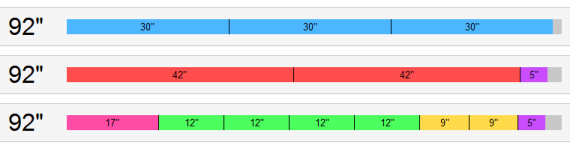
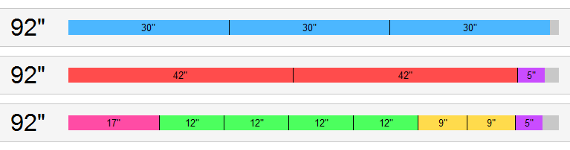
made thumbnails, tweaked styling

diff --git a/templates/work/scope.html b/templates/work/scope.html
@@ -20,14 +20,14 @@
 
 {% block article -%}
 		<section>
-			{{ make_image("/static/work/scope.png", "/static/work/scope.png") }}
+			{{ make_image("/static/work/scope_thumb.png", "/static/work/scope.png") }}
 		</section>
 		<section>
 			<div class='col'>
 				This is a software package for turning an Arduino into an oscilloscope. The front-end is written in Processing, and provides controls for pin selection, triggering, and sample rate. Data is collected via the Arduino’s 6 ADC pins, and triggered/buffered on the chip. This allows for sample rates of up to 25kHz.
 			</div>
 			<div class='col'>
-				In order to achieve better results, it was neccessary to process and buffer the signal on the Arduino itself. While this does present severe memory constrictions, it goes a long way to preserve the temporal consistancy of the readings. Triggering (signal stabalization) can also be done in the Arduino, and helps prevent the sending of undisplayed data. This alone dramatically increases the sample rate of the system. More speed was also coaxed out of the analogRead() by <a href='http://brendanwhitfield.wordpress.com/2014/04/07/arduino-fast-analogread/'>adjusting prescale registers in the AVR</a>.
+				In order to achieve better results, it was neccessary to process and buffer the signal on the Arduino itself. While this does present severe memory constrictions, it goes a long way to preserve the temporal consistancy of the readings. Triggering (signal stabalization) can also be done in the Arduino, and helps prevent the sending of undisplayed data. This alone dramatically increases the sample rate of the system. More speed was also coaxed out of the analogRead() by <a href='http://www.microsmart.co.za/technical/2014/03/01/advanced-arduino-adc/'>adjusting prescale registers in the AVR</a>.
 			</div>
 		</section>
 {% endblock %}

diff --git a/templates/work/cgraph.html b/templates/work/cgraph.html
@@ -21,11 +21,13 @@
 
 {% block article -%}
 		<section>
-			{{ make_image("/static/work/cgraph.png", "/static/work/cgraph.png") }}
+			{{ make_image("/static/work/cgraph_thumb.png", "/static/work/cgraph.png") }}
 		</section>
 		<section>
 			<div class='col'>
-				C-Graph is a function call graphing utility for C. Integrated with GitHub, C-Graph contructs a force directed graph of function and files in a Git repository. Files can be expanded into sets of functions, with arrows depicting the calls from one function to the next. Selecting a function or file will also display its raw C code.
+				<p>
+					C-Graph is a function call graphing utility for C that is integrated with GitHub. Simply provide the url for a Git repository, and C-Graph will search for C files. The graph itself represents the code at both the file and function level. Files can be expanded into sets of functions, with arrows depicting the calls from one function to the next. Selecting a function or file will also display its raw C code.
+				</p>
 			</div>
 			<div class='col'>
 				

diff --git a/templates/work/remote.html b/templates/work/remote.html
@@ -19,7 +19,7 @@
 
 {% block article -%}
 		<section>
-			{{ make_image("/static/work/remote.jpg", "/static/work/remote.jpg") }}
+			{{ make_image("/static/work/remote_thumb.jpg", "/static/work/remote.jpg") }}
 		</section>
 		<section>
 			<div class='col'>
@@ -30,6 +30,6 @@
 			</div>
 		</section>
 		<section>
-			{{ make_image("/static/work/remote_inside.jpg", "/static/work/remote_inside.jpg") }}
+			{{ make_image("/static/work/remote_inside_thumb.jpg", "/static/work/remote_inside.jpg") }}
 		</section>
 {% endblock %}

diff --git a/templates/base.html b/templates/base.html
@@ -84,8 +84,8 @@
 				] -%}
 
 				{% for link in work %}
-					<a href='/work/{{ link[1] }}' {% if link[1] == page_name %}class='current'{% endif %} >{{ link[0] }}</a>
-				{% endfor %}
+				<a href='/work/{{ link[1] }}' {% if link[1] == page_name -%}class='current' {% endif -%}>{{ link[0] }}</a>
+				{%- endfor %}
 			</nav>
 			<nav>
 				<span>About</span>

diff --git a/templates/work/asteroids.html b/templates/work/asteroids.html
@@ -19,7 +19,7 @@
 
 {% block article -%}
 		<section>
-			{{ make_image("/static/work/asteroids.png", "/static/work/asteroids.png") }}
+			{{ make_image("/static/work/asteroids_thumb.png", "/static/work/asteroids.png") }}
 		</section>
 		<section>
 			<div class='col'>

diff --git a/templates/work/planetary.html b/templates/work/planetary.html
@@ -18,7 +18,7 @@
 
 {% block article -%}
 		<section>
-			{{ make_image("/static/work/planetary.png", "/static/work/planetary.png") }}
+			{{ make_image("/static/work/planetary_thumb.png", "/static/work/planetary.png") }}
 		</section>
 		<section>
 			<div class='col'>

diff --git a/templates/work/15puzzle.html b/templates/work/15puzzle.html
@@ -18,7 +18,7 @@
 
 {% block article -%}
 		<section>
-			{{ make_image("/static/work/15puzzle.png", "/static/work/15puzzle.png") }}
+			{{ make_image("/static/work/15puzzle_thumb.png", "/static/work/15puzzle.png") }}
 		</section>
 		<section>
 			<div class='col'>

diff --git a/templates/work/lumber.html b/templates/work/lumber.html
@@ -20,7 +20,7 @@
 
 {% block article -%}
 		<section>
-			{{ make_image("/static/work/lumber.png", "/static/work/lumber.png") }}
+			{{ make_image("/static/work/lumber_thumb.png", "/static/work/lumber.png") }}
 		</section>
 		<section>
 			<div class='col'>

diff --git a/templates/work/optics.html b/templates/work/optics.html
@@ -18,7 +18,7 @@
 
 {% block article -%}
 		<section>
-			{{ make_image("/static/work/optics.png", "/static/work/optics.png") }}
+			{{ make_image("/static/work/optics_thumb.png", "/static/work/optics.png") }}
 		</section>
 		<section>
 			<div class='col'>

diff --git a/templates/work/synth.html b/templates/work/synth.html
@@ -19,7 +19,7 @@
 
 {% block article -%}
 		<section>
-			{{ make_image("/static/work/synth.png", "/static/work/synth.png") }}
+			{{ make_image("/static/work/synth_thumb.png", "/static/work/synth.png") }}
 		</section>
 		<section>
 			<div class='col'>

diff --git a/templates/article.html b/templates/article.html
@@ -14,7 +14,7 @@
 
 
 {%- macro make_langs(langs) -%}
-	&nbsp;=&nbsp;
+	=&nbsp;
 	{%- for lang in langs -%}
 		{%- if loop.index != 1 -%}
 			&nbsp;+&nbsp;
